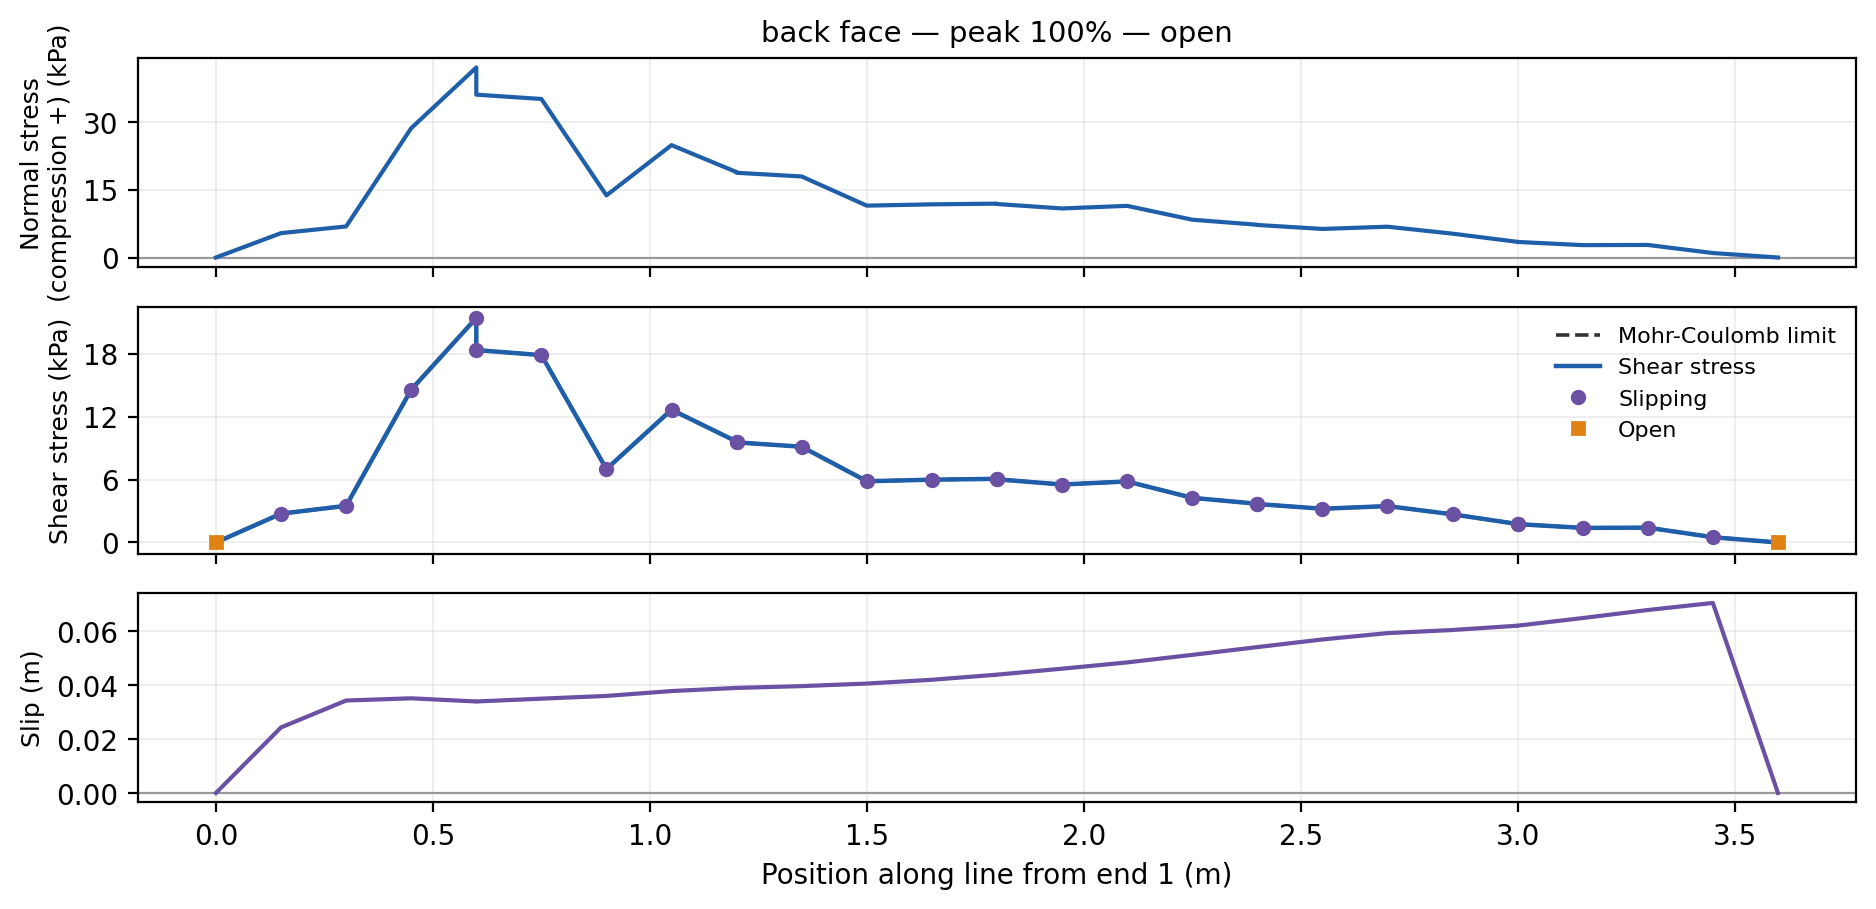
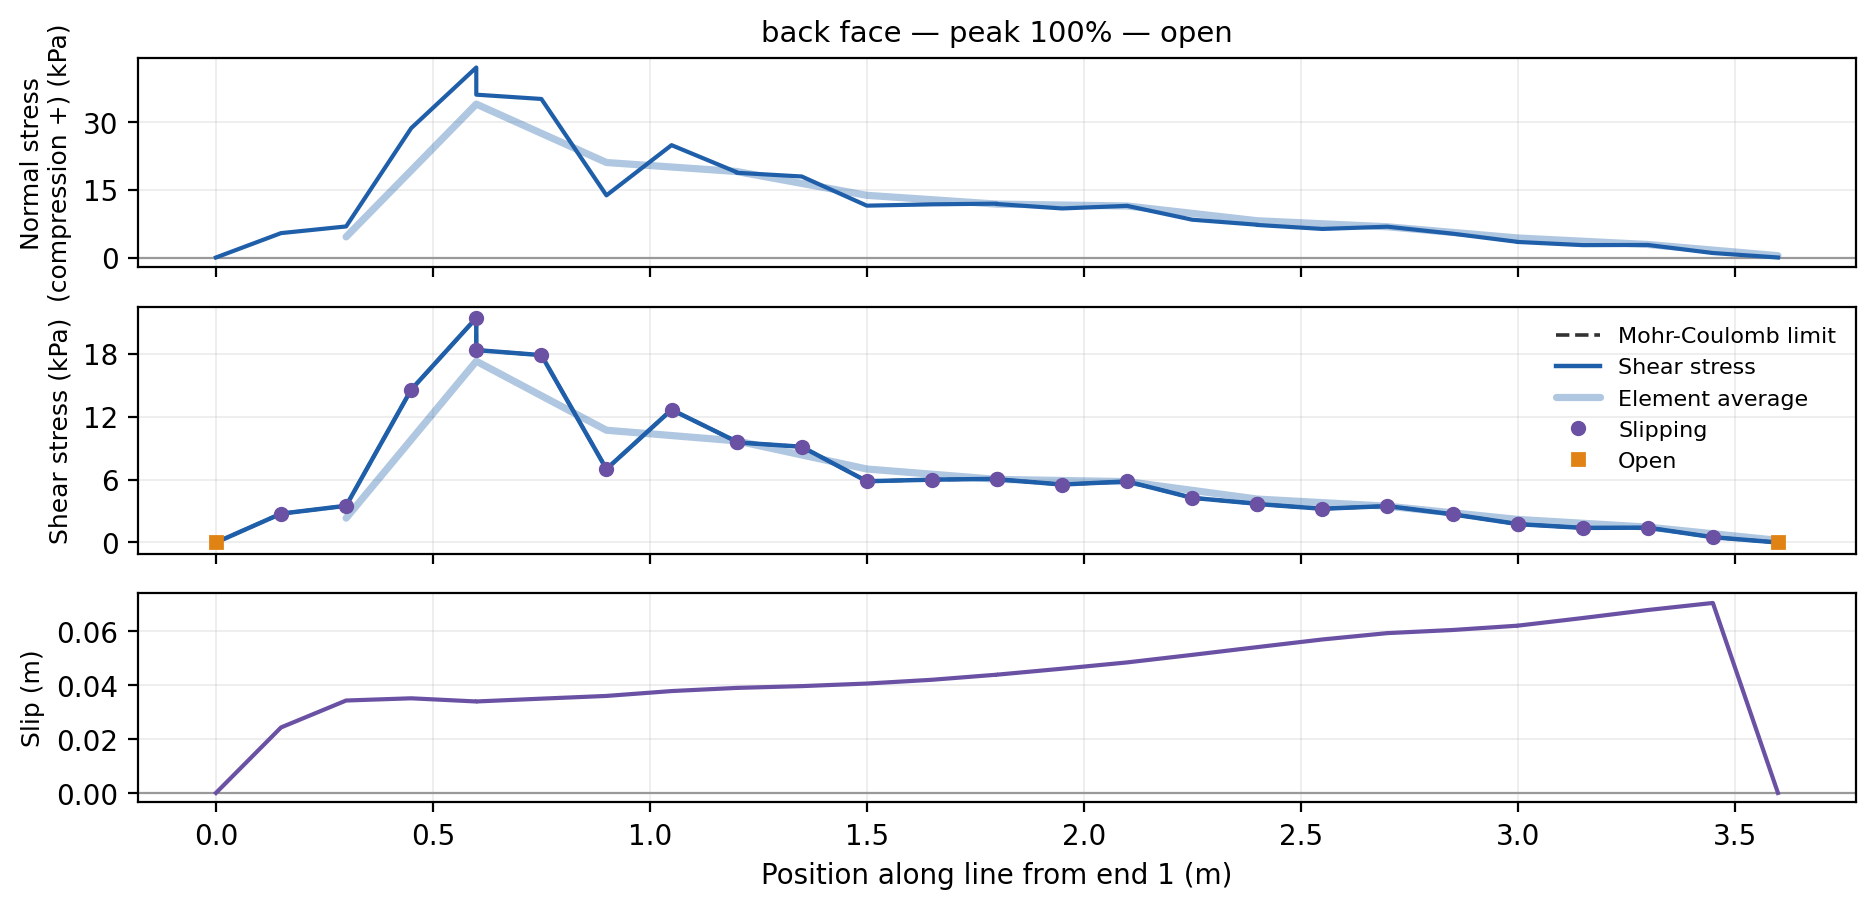
1D details: the element average drawn through the stations on the normal and shear panels
Each interface element's three stations weighted one sixth, two thirds, one
sixth: the force the element transfers, which runs smoothly where the station
values zigzag on a gripping interface. The joints page and FEM-3 point to it.

Claude-Session: https://claude.ai/code/session_01XjjT2aBxw8gY7EFdpoUcpj

diff --git a/xslope/fem_details.py b/xslope/fem_details.py
@@ -1046,6 +1046,23 @@ def joint_profile(fem_data, solution, line_id, slope_data=None,
     if not rows:
         return blank
 
+    # The element averages: each interface element's three pairs weighted one
+    # sixth, two thirds, one sixth (Simpson, the element's own nodal weights) —
+    # the force the element actually transfers, keyed by its middle pair's node
+    # and, where the two faces meet, the larger of the two, as the rows are.
+    elem_rows = {}
+    for i in np.flatnonzero(line_of == line_id):
+        if not all(w[i, p] for p in range(3)):
+            continue
+        mid = int(conn[i, 3 + 1] if side[i] == 1 else conn[i, 1])
+        ts_avg = (abs(ts[i, 0]) + 4.0 * abs(ts[i, 1]) + abs(ts[i, 2])) / 6.0
+        tn_avg = (tn[i, 0] + 4.0 * tn[i, 1] + tn[i, 2]) / 6.0
+        e = elem_rows.setdefault(mid, {"ts": 0.0, "tn": 0.0})
+        if ts_avg >= e["ts"]:
+            e["ts"] = float(ts_avg)
+        if abs(tn_avg) >= abs(e["tn"]):
+            e["tn"] = float(tn_avg)
+
     ids = np.array(sorted(rows), dtype=int)
     pts = nodes[ids, :2]
     # Distance from end 1: the stations run along a straight line, so the
@@ -1092,10 +1109,19 @@ def joint_profile(fem_data, solution, line_id, slope_data=None,
         bar_s, bar_T, bar_cap = prof["s"], prof["T"], prof["t_allow"]
     else:
         bar_s = bar_T = bar_cap = empty
+    # The element averages, placed at their middle pair's station.
+    s_of_node = {int(n_): float(s_) for n_, s_ in zip(ids, sdist)}
+    elem_ids = [n_ for n_ in sorted(elem_rows, key=lambda n_: s_of_node.get(n_, 0.0))
+                if n_ in s_of_node]
+    elem_s = np.array([s_of_node[n_] for n_ in elem_ids], dtype=float)
+    elem_ts = np.array([elem_rows[n_]["ts"] for n_ in elem_ids], dtype=float)
+    elem_tn = np.array([elem_rows[n_]["tn"] for n_ in elem_ids], dtype=float)
+
     return {
         "kind": "joint", "index": int(line_id), "label": label,
         "length": length,
         "s": sdist, "x": pts[:, 0], "y": pts[:, 1],
+        "elem_s": elem_s, "elem_ts": elem_ts, "elem_tn": elem_tn,
         "tn": np.array([r["tn"] for r in rec]),
         "ts": ts_a, "tlim": tlim_a,
         "slip": np.array([r["slip"] for r in rec]),

diff --git a/xslope/plot_fem_details.py b/xslope/plot_fem_details.py
@@ -580,6 +580,13 @@ def plot_joint_detail(profile, fig=None, fit_height=True):
     # --- normal traction ---------------------------------------------------
     ax_n.axhline(0.0, color="0.6", linewidth=0.8)
     ax_n.plot(s, profile["tn"], "-", color=C_FORCE, linewidth=1.5)
+    elem_s = np.asarray(profile.get("elem_s", []), dtype=float)
+    if len(elem_s) >= 2:
+        # The element averages (one sixth, two thirds, one sixth of the three
+        # stations): the force each element transfers, which runs smoothly where
+        # the station values zigzag on a gripping interface.
+        ax_n.plot(elem_s, profile["elem_tn"], "-", color=C_FORCE, linewidth=2.6,
+                  alpha=0.35, solid_capstyle="round")
     ax_n.set_ylabel(_axis_label("Normal stress\n(compression +)",
                                 u.get("stress")), fontsize=9)
     ax_n.grid(True, **GRID)
@@ -590,6 +597,11 @@ def plot_joint_detail(profile, fig=None, fit_height=True):
     lim, = ax_s.plot(s, tlim, "--", color=C_ENVELOPE, linewidth=1.3)
     mob, = ax_s.plot(s, ts, "-", color=C_FORCE, linewidth=1.6)
     h, l = [lim, mob], ["Mohr-Coulomb limit", "Shear stress"]
+    if len(elem_s) >= 2:
+        avg, = ax_s.plot(elem_s, profile["elem_ts"], "-", color=C_FORCE,
+                         linewidth=2.6, alpha=0.35, solid_capstyle="round")
+        h.append(avg)
+        l.append("Element average")
     slipping = np.asarray(profile["slipping"], dtype=bool)
     opened = np.asarray(profile["open"], dtype=bool)
     if slipping.any():

diff --git a/docs/tutorials/fem03_block_wall_joints.md b/docs/tutorials/fem03_block_wall_joints.md
@@ -567,9 +567,10 @@ where the sheet grips, the shear stress zigzags from station to station
 between about 12 and 26 kPa. That is how a gripping interface reads out, not a
 change in the stress along the sheet: each station reports the force passed
 through its node over the short length it stands for, and the average over
-each element, the force the sheet actually picks up, runs smoothly at about
-17 to 20 kPa. The joints page explains it under *Why the shear traction can
-zigzag where an interface grips*.
+each element, the force the sheet actually picks up, is the lighter line
+through the stations: it runs smoothly at about 17 to 20 kPa. The joints page
+explains it under *Why the shear traction can zigzag where an interface
+grips*.
 
 One more step in strength and the top layer has nothing left to give, and the
 wall goes. This is the failed state at 2.0, drawn to scale, with no

diff --git a/docs/fem/joints.md b/docs/fem/joints.md
@@ -238,7 +238,8 @@ each end station plus two thirds of the middle one, is the force the element act
 transfers, it runs smoothly, and a ten times stiffer interface does not change it. It
 disappears where the interface slips, because every slipping station is held at its own
 Mohr-Coulomb limit, which follows the normal stress. Read a gripping stretch by its element
-averages, not station by station.
+averages, not station by station; the 1D details panel draws them as the lighter line through
+the stations, on the normal and the shear panels.
 
 The element's own law — the peak limit, the residual drop and the opening a dilating joint produces
 per unit of slip — is checked against its closed forms by `test/joint_element_check.py`.
